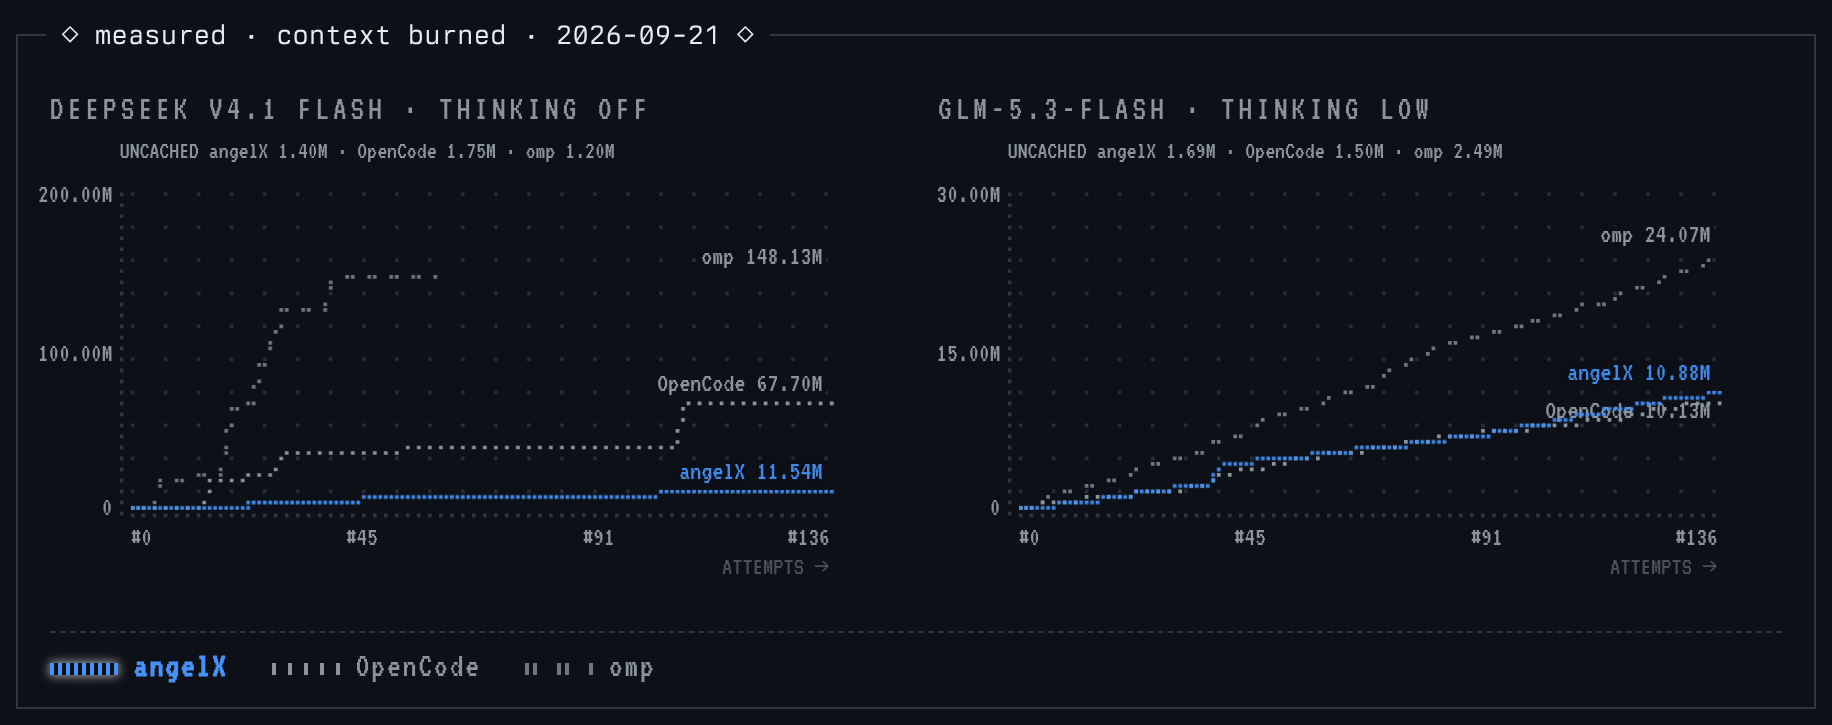
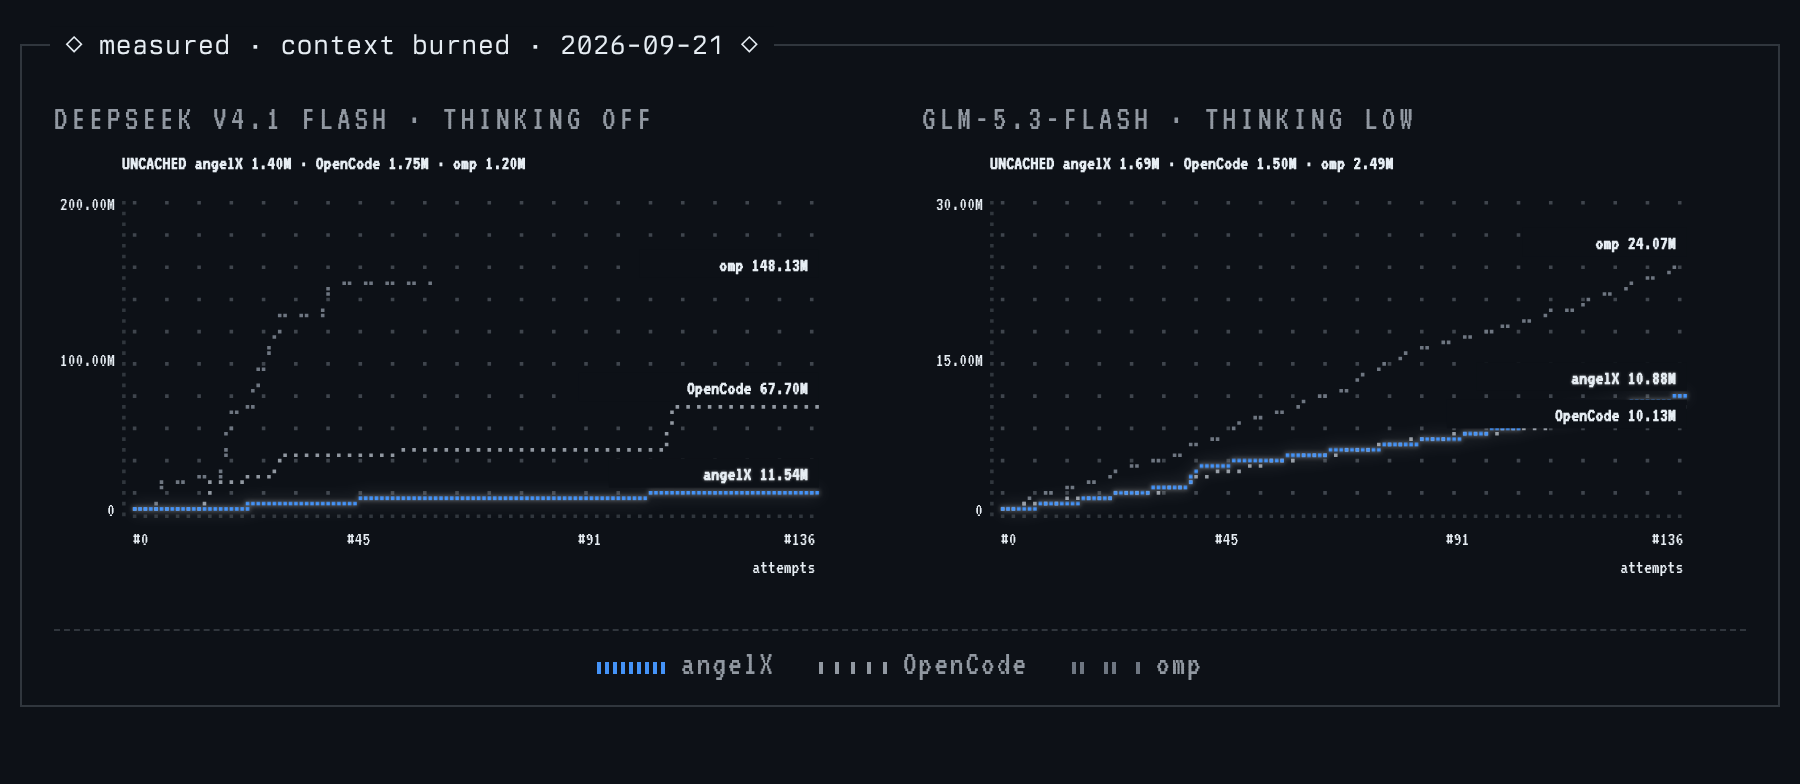
docs(bench): fix cache chart rendering and add score and bars plates to README
- Fix out-of-bounds array access in website/js/bench.js cache() for runs where omp stopped early
- Add BENCH_THEME and BENCH_STATIC support in bench.js for reliable static chart rendering
- Add scripts/render_readme_graphs.py to render 2x Retina plates in GitHub dark and light themes
- Add dedicated scoreboard (score) and output per task (bars) plates to README matching website/benchmarks.html
- Re-render all 12 benchmark plates (race, score, bars, seconds, context, cache) in docs/images/bench/

diff --git a/website/js/bench.js b/website/js/bench.js
@@ -9,7 +9,9 @@ const B = window.BENCH;
 if (!B) return;
 
 // site tokens (css/style.css :root); omp's mark gray is a TXT×BG mix (marks only, 4.0:1)
-const INK = '#f4f4f7', DIM = '#bcbcc7', D3 = '#7c7c88', FAINT = '#74747f', RULE = '#3a3a44', BG = '#050506';
+const TH = Object.assign({ INK: '#f4f4f7', DIM: '#bcbcc7', D3: '#7c7c88', FAINT: '#74747f', RULE: '#3a3a44', BG: '#050506', HERO: '' },
+  window.BENCH_THEME || {});      // optional palette override (README renders); the site uses these defaults
+const { INK, DIM, D3, FAINT, RULE, BG } = TH, HERO = TH.HERO || TH.INK;
 const P = 3, S = 2, FPS = 12;             // dot pitch, dot size (viewBox units), frame rate
 const REDUCED = !!(window.matchMedia && matchMedia('(prefers-reduced-motion: reduce)').matches);
 const NS = 'http://www.w3.org/2000/svg';
@@ -20,7 +22,7 @@ const sq = (x, y, s = S) => `M${x} ${y}h${s}v${s}h-${s}z`;
 
 // identity = label + gray + dot rhythm (never colour alone)
 const SER = {
-  angelx: { label: 'angelX', color: INK, on: i => true },
+  angelx: { label: 'angelX', color: HERO, on: i => true },
   opencode: { label: 'OpenCode', color: DIM, on: i => i % 2 === 0 },
   omp: { label: 'omp', color: D3, on: i => i % 4 < 2 },
 };
@@ -98,7 +100,7 @@ const xLabel = (svg, f, c, s, anchor = 'middle') => txt(svg, { x: f.X(c), y: f.Y
 function play(state, ticks, onTick, animate = true) {
   (state.timers || []).forEach(clearInterval);
   state.timers = [];
-  if (REDUCED || ticks <= 1) { onTick(1); return; }
+  if (REDUCED || window.BENCH_STATIC || ticks <= 1) { onTick(1); return; }
   if (!animate) { onTick(0); return; }
   let k = 0;
   onTick(0);
@@ -167,7 +169,7 @@ function race(svg, m, state, anim = true) {
       finish.innerHTML = '';
       series.forEach(s => {
         const e = toCell(s.pts[s.pts.length - 1]);
-        const star = txt(finish, { x: f.X(e.c) + 1, y: f.Y(e.r) - 4, 'text-anchor': 'middle', class: `vt ${s.h === 'angelx' ? 'ax-glow' : ''}`, 'font-size': 15, fill: SER[s.h].color }, '');
+        const star = txt(finish, { x: f.X(e.c) + 1, y: f.Y(e.r) - 4, 'text-anchor': 'middle', class: `vt ${s.h === 'angelx' ? 'ax-glow' : ''}`, 'font-size': 15, fill: SER[s.h].color }, '◆');
         tip(star, `${SER[s.h].label} finished ${s.solved}/${s.pts.length - 1} at ${Math.round(s.total)} s`);
       });
     }
@@ -311,7 +313,7 @@ function cache(svg, m, state, anim = true) {
     const now = 1 + p * (N - 1);
     series.forEach(s => paths[s.h].setAttribute('d', dots[s.h].filter(d => d.t <= now).map(d => sq(f.X(d.x), f.Y(d.y))).join('')));
     const at = Math.max(1, Math.floor(now));
-    l1.textContent = 'HIT  ' + LEGEND_ORDER.map(h => { const s = series.find(x => x.h === h); return `${SER[h].label} ${s.pts[Math.min(at, N) - 1].v.toFixed(1)}%`; }).join('  ·  ');
+    l1.textContent = 'HIT  ' + LEGEND_ORDER.map(h => { const s = series.find(x => x.h === h); return `${SER[h].label} ${s.pts[Math.min(at, s.pts.length) - 1].v.toFixed(1)}%`; }).join('  ·  ');
     l2.textContent = p >= 1
       ? 'FRESH/TASK  ' + LEGEND_ORDER.map(h => `${SER[h].label} ${(series.find(x => x.h === h).fresh / 1000).toFixed(1)}k`).join('  ·  ')
       : `ATTEMPT ${String(at).padStart(2, '0')}/${N}`;
@@ -353,9 +355,9 @@ function scoreboard(svg, m, state, anim = true) {
 
   const total = rows.reduce((n, r) => n + r.c.attempts.length, 0);
   const readout = txt(svg, { x: 2, y: 18, class: 'vt num', 'font-size': 16, fill: INK }, '');
-  const lit = rows.map(r => el(svg, 'path', { d: '', fill: r.h === 'angelx' ? '#ffffff' : INK, class: r.h === 'angelx' ? 'ax-glow' : '' }));
+  const lit = rows.map(r => el(svg, 'path', { d: '', fill: r.h === 'angelx' ? (window.BENCH_THEME ? HERO : '#ffffff') : INK, class: r.h === 'angelx' ? 'ax-glow' : '' }));
   const miss = rows.map(() => el(svg, 'path', { d: '', fill: 'none', stroke: DIM, 'stroke-width': 1.2 }));
-  const counts = rows.map(r => txt(svg, { x: 454, y: r.y + 7, 'text-anchor': 'end', class: `vt num ${r.h === 'angelx' ? 'ax-txt-glow' : ''}`, 'font-size': 15, fill: r.h === 'angelx' ? INK : DIM }, ''));
+  const counts = rows.map(r => txt(svg, { x: 454, y: r.y + 7, 'text-anchor': 'end', class: `vt num ${r.h === 'angelx' ? 'ax-txt-glow' : ''}`, 'font-size': 15, fill: r.h === 'angelx' ? (window.BENCH_THEME ? HERO : INK) : DIM }, ''));
   const spans = rows.map(r => txt(svg, { x: 0, y: r.y + 24, class: 'vt', 'font-size': 11.5, fill: FAINT }, ''));
 
   const fmtMin = sec => sec >= 3600 ? `${(sec / 3600).toFixed(1)}h` : `${Math.round(sec / 60)}m`;

diff --git a/scripts/render_readme_graphs.py b/scripts/render_readme_graphs.py
@@ -1,0 +1,197 @@
+#!/usr/bin/env python3
+"""Render benchmark plots as static Retina PNGs in GitHub light and dark palettes
+for README.md (<picture> + prefers-color-scheme).
+
+Generates:
+  docs/images/bench/race-{dark,light}.png
+  docs/images/bench/score-{dark,light}.png
+  docs/images/bench/bars-{dark,light}.png
+  docs/images/bench/seconds-{dark,light}.png
+  docs/images/bench/context-{dark,light}.png
+  docs/images/bench/cache-{dark,light}.png
+  (plus legacy fallback attempts-output-{dark,light}.png)
+
+Usage:
+  python3 scripts/render_readme_graphs.py [output_dir]
+"""
+
+from __future__ import annotations
+
+import json
+import re
+import shutil
+import subprocess
+import sys
+import tempfile
+from pathlib import Path
+
+REPO_ROOT = Path(__file__).resolve().parent.parent
+DEFAULT_OUT = REPO_ROOT / "docs" / "images" / "bench"
+PAGE_W = 900
+DATE = "2026-09-21"
+
+THEMES = {
+    "dark": dict(
+        BG="#0d1117",
+        INK="#e6edf3",
+        DIM="#9198a1",
+        D3="#6e7681",
+        FAINT="#7d8590",
+        RULE="#30363d",
+        HERO="#4493f8",
+    ),
+    "light": dict(
+        BG="#ffffff",
+        INK="#1f2328",
+        DIM="#59636e",
+        D3="#818b98",
+        FAINT="#656d76",
+        RULE="#d1d9e0",
+        HERO="#0969da",
+    ),
+}
+
+FIGURE_DEFS = [
+    {
+        "name": "race",
+        "fig_id": "tv-race",
+        "key": "race",
+        "title": "the race to 136",
+        "legend": '<span><i class="ax"></i>angelX</span><span><i class="oc"></i>OpenCode</span><span><i class="om"></i>omp</span>',
+    },
+    {
+        "name": "score",
+        "fig_id": "tv-score",
+        "key": "score",
+        "title": "every attempt, placed at the moment it finished",
+        "legend": '<span><i class="pass"></i>passed</span><span><i class="fail"></i>failed</span>',
+    },
+    {
+        "name": "bars",
+        "fig_id": "tv-bars",
+        "key": "bars",
+        "title": "output per task",
+        "legend": '<span><i class="ax"></i>angelX</span><span><i class="oc"></i>OpenCode</span><span><i class="om"></i>omp</span>',
+    },
+    {
+        "name": "seconds",
+        "fig_id": "tv-trace",
+        "key": "trace",
+        "title": "seconds per attempt",
+        "legend": '<span class="hero">■ angelX</span><span>+ OpenCode</span><span>× omp</span>',
+    },
+    {
+        "name": "context",
+        "fig_id": "tv-burn",
+        "key": "burn",
+        "title": "context burned",
+        "legend": '<span><i class="ax"></i>angelX</span><span><i class="oc"></i>OpenCode</span><span><i class="om"></i>omp</span>',
+    },
+    {
+        "name": "cache",
+        "fig_id": "tv-cache",
+        "key": "cache",
+        "title": "cache",
+        "legend": '<span><i class="ax"></i>angelX</span><span><i class="oc"></i>OpenCode</span><span><i class="om"></i>omp</span>',
+    },
+]
+
+
+def make_page(fdef: dict, t: dict) -> str:
+    fig_id = fdef["fig_id"]
+    key = fdef["key"]
+    title = fdef["title"]
+    legend = fdef["legend"]
+    return f"""<!doctype html><html><head><meta charset="utf-8">
+<link href="https://fonts.googleapis.com/css2?family=VT323&display=swap" rel="stylesheet">
+<link rel="stylesheet" href="bench.css">
+<style>
+html,body{{margin:0;background:{t['BG']}}}
+body{{width:{PAGE_W}px;padding:22px 10px 12px;box-sizing:border-box}}
+.bench{{margin:0;--b-bg:{t['BG']};--b-ink:{t['INK']};--b-dim:{t['DIM']};--b-rule:{t['RULE']}}}
+.bench .tv{{background:{t['BG']};margin:0}}
+.bench .replay{{display:none}}
+.bench .panels{{display:grid;grid-template-columns:repeat(2,minmax(0,1fr));gap:10px 22px}}
+.bench .panel-name{{margin:0 0 2px;font-family:var(--b-dos);font-size:17px;letter-spacing:.12em;color:var(--b-dim)}}
+.bench svg{{width:100%;height:auto;display:block;overflow:visible}}
+.bench svg .vt{{font-family:var(--b-dos)}}
+.bench .legend{{display:flex;flex-wrap:wrap;gap:4px 22px;margin:10px 0 0;padding-top:8px;border-top:1px dashed var(--b-rule);font-family:var(--b-dos);font-size:17px;letter-spacing:.06em;color:var(--b-dim)}}
+.bench .legend i{{display:inline-block;width:34px;height:6px;margin-right:8px;vertical-align:middle;background-repeat:repeat-x;background-size:var(--w) 6px}}
+.bench .legend .ax{{--w:4px;background-image:linear-gradient(90deg,{t['HERO']} 0 2px,transparent 2px)}}
+.bench .legend .oc{{--w:8px;background-image:linear-gradient(90deg,{t['DIM']} 0 2px,transparent 2px)}}
+.bench .legend .om{{--w:16px;background-image:linear-gradient(90deg,{t['D3']} 0 2px,transparent 2px 4px,{t['D3']} 4px 6px,transparent 6px)}}
+.bench .legend .hero{{color:{t['HERO']}}}
+.bench .legend .pass{{display:inline-block;width:8px;height:8px;margin-right:6px;vertical-align:middle;background:{t['INK']}}}
+.bench .legend .fail{{display:inline-block;width:6px;height:6px;margin-right:6px;vertical-align:middle;border:1px solid {t['DIM']}}}
+</style></head><body>
+<div class="bench">
+  <figure class="tv" id="{fig_id}">
+    <figcaption class="tv-title">◇ measured · {title} · {DATE} ◇</figcaption>
+    <div class="panels">
+      <div><p class="panel-name">DEEPSEEK V4.1 FLASH · THINKING OFF</p>
+        <svg id="{key}-deepseek" viewBox="0 0 460 262" role="img"></svg></div>
+      <div><p class="panel-name">GLM-5.3-FLASH · THINKING LOW</p>
+        <svg id="{key}-glm" viewBox="0 0 460 262" role="img"></svg></div>
+    </div>
+    <div class="legend">{legend}</div>
+  </figure>
+</div>
+<script>
+window.BENCH_THEME = {json.dumps(t)};
+window.BENCH_STATIC = true;
+window.BENCH_EAGER = true;
+</script>
+<script src="bench-data.js"></script>
+<script src="bench.js"></script>
+<script>
+document.querySelectorAll('.legend span').forEach(s => {{ if (s.textContent.startsWith('■')) s.classList.add('hero'); }});
+var h = Math.ceil(document.body.getBoundingClientRect().height);
+var d = document.createElement("div");
+d.id = "measured-height";
+d.setAttribute("data-height", h);
+document.body.appendChild(d);
+</script></body></html>"""
+
+
+def main() -> None:
+    out_dir = Path(sys.argv[1]) if len(sys.argv) > 1 else DEFAULT_OUT
+    out_dir.mkdir(parents=True, exist_ok=True)
+
+    with tempfile.TemporaryDirectory(prefix="angelx_bench_render_") as tmp:
+        work_dir = Path(tmp)
+        shutil.copy(REPO_ROOT / "website" / "css" / "bench.css", work_dir / "bench.css")
+        shutil.copy(REPO_ROOT / "website" / "js" / "bench.js", work_dir / "bench.js")
+        shutil.copy(REPO_ROOT / "website" / "js" / "bench-data.js", work_dir / "bench-data.js")
+
+        for fdef in FIGURE_DEFS:
+            for theme, t in THEMES.items():
+                html_file = work_dir / f"{fdef['name']}-{theme}.html"
+                html_file.write_text(make_page(fdef, t))
+
+                res = subprocess.run([
+                    "chromium", "--headless=new", "--disable-gpu", "--no-sandbox",
+                    "--dump-dom", html_file.as_uri()
+                ], capture_output=True, text=True, check=True)
+
+                m = re.search(r'data-height="(\d+)"', res.stdout)
+                height = int(m.group(1)) if m else 380
+
+                png_file = out_dir / f"{fdef['name']}-{theme}.png"
+                subprocess.run([
+                    "chromium", "--headless=new", "--disable-gpu", "--no-sandbox", "--hide-scrollbars",
+                    "--force-device-scale-factor=2", "--virtual-time-budget=6000",
+                    f"--window-size={PAGE_W},{height}", f"--screenshot={png_file}", html_file.as_uri()
+                ], capture_output=True, check=True)
+                print(f"Rendered {png_file.name} ({PAGE_W * 2}x{height * 2})")
+
+        # Copy score as attempts-output fallback for backwards compatibility
+        for theme in ("dark", "light"):
+            score_png = out_dir / f"score-{theme}.png"
+            legacy_png = out_dir / f"attempts-output-{theme}.png"
+            if score_png.exists():
+                shutil.copy(score_png, legacy_png)
+                print(f"Updated legacy fallback {legacy_png.name}")
+
+
+if __name__ == "__main__":
+    main()

diff --git a/README.md b/README.md
@@ -55,8 +55,13 @@ angelX runs a verification stage before it reports a task done; that is where it
 </picture>
 
 <picture>
-  <source media="(prefers-color-scheme: dark)" srcset="docs/images/bench/attempts-output-dark.png">
-  <img alt="Graded attempts (719 of 739 passed) and output tokens and model calls per task, for angelX, OpenCode and omp" src="docs/images/bench/attempts-output-light.png">
+  <source media="(prefers-color-scheme: dark)" srcset="docs/images/bench/score-dark.png">
+  <img alt="Every attempt, placed at the moment it finished: pass and fail on cumulative agent time, for angelX, OpenCode and omp on both models" src="docs/images/bench/score-light.png">
+</picture>
+
+<picture>
+  <source media="(prefers-color-scheme: dark)" srcset="docs/images/bench/bars-dark.png">
+  <img alt="Output per task: tokens generated and model calls made per task, with stacked bars at the 2.5k cap, for angelX, OpenCode and omp on both models" src="docs/images/bench/bars-light.png">
 </picture>
 
 <picture>
